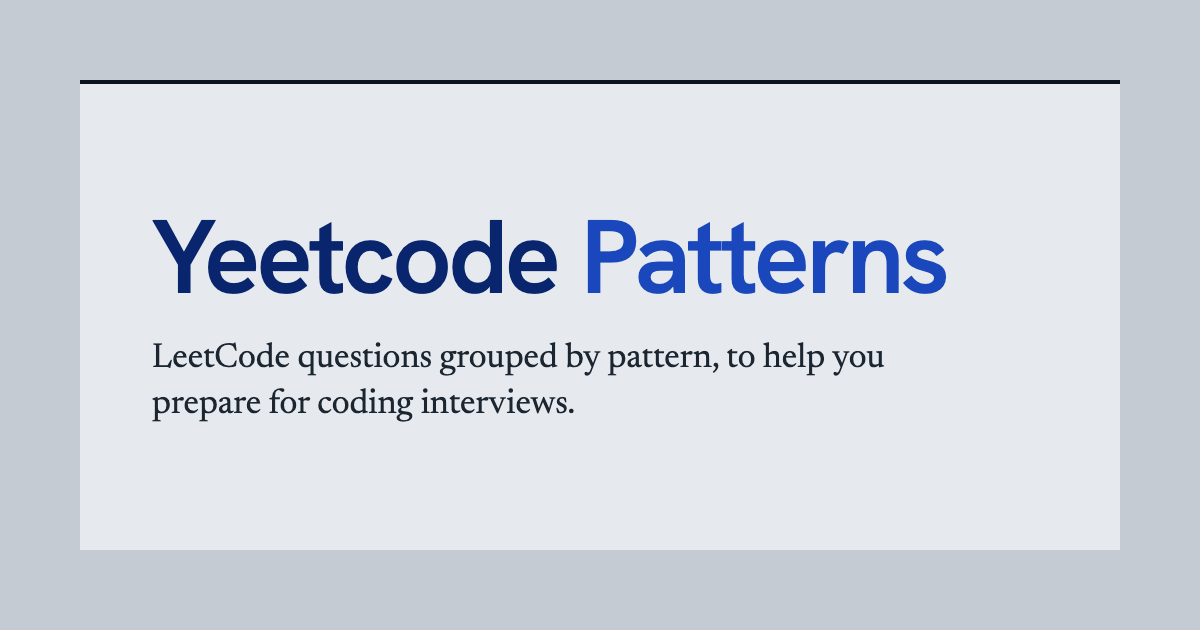
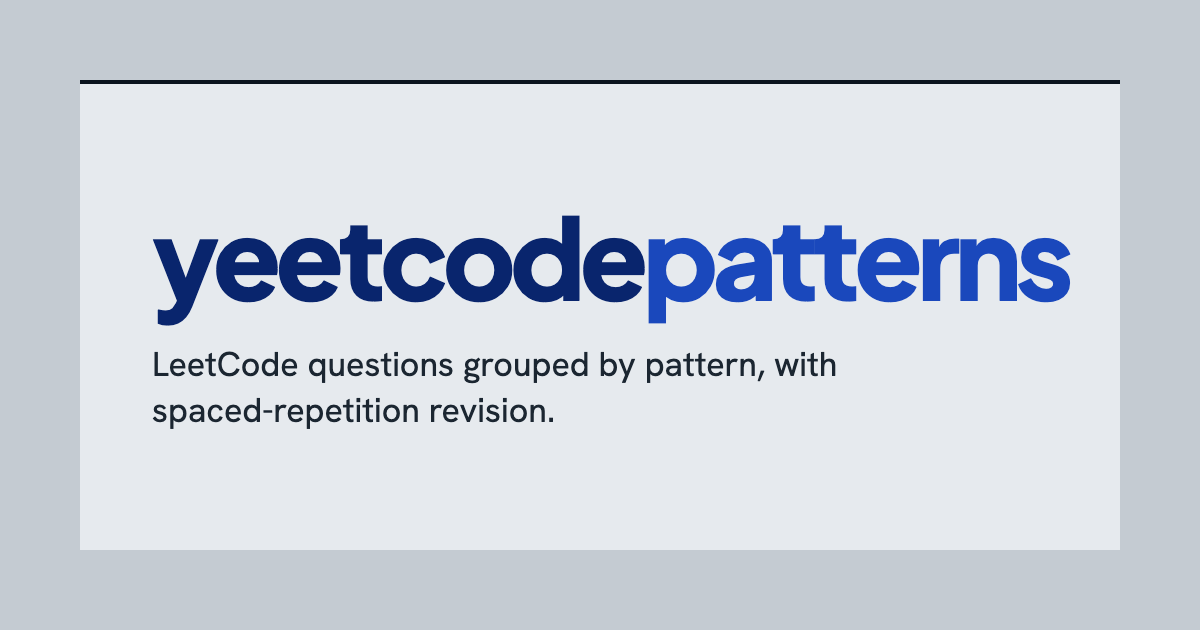
Use the yeetcodepatterns wordmark, a blue accent and all-sans type
- Wordmark: design 1 from the showcase, "yeetcode" in deep blue and
  "patterns" in the accent blue, set together in Plus Jakarta Sans
  ExtraBold; matching favicon, Apple touch icon and social image
- Accent: the wordmark's blue replaces magenta everywhere it's used
  (progress, due reviews, active tab, links, primary buttons, focus).
  Cobalt in light mode and the wordmark's pale blue in dark mode, so text
  and white-on-blue buttons keep their contrast
- Type: Hanken Grotesk for all text, replacing the Newsreader serif;
  figures use its tabular numerals instead of a mono face. A sans-style
  mono (Geist Mono) remains only for code, key hints and the ASCII dog

Changed region(s): [[0.1233, 0.3317, 0.8942, 0.5127], [0.1233, 0.5429, 0.74, 0.6937]]

diff --git a/src/components/roadmaps/RoadmapView.tsx b/src/components/roadmaps/RoadmapView.tsx
@@ -457,7 +457,7 @@ export default function RoadmapView({ roadmap, questions }: Props) {
 
   const phaseMarker = (complete: boolean, started: boolean, n: number) => (
     <div
-      className={`flex h-8 w-8 shrink-0 items-center justify-center font-outlier text-sm font-medium tabular-nums ${
+      className={`flex h-8 w-8 shrink-0 items-center justify-center text-sm font-medium tabular-nums ${
         complete
           ? "bg-ink text-sheet"
           : started
@@ -477,7 +477,7 @@ export default function RoadmapView({ roadmap, questions }: Props) {
         <p className="mt-2 max-w-[70ch] text-md text-ink-2"><InlineMarkdown text={roadmap.description} /></p>
         <div className="mt-6">
           <div className="mb-3 flex flex-wrap items-baseline gap-x-6 gap-y-1">
-            <span className="font-outlier text-lg font-medium text-ink tabular-nums">{stats.done}/{stats.total} completed ({stats.pct}%)</span>
+            <span className="text-lg font-medium text-ink tabular-nums">{stats.done}/{stats.total} completed ({stats.pct}%)</span>
             <div className="flex flex-wrap gap-x-4 gap-y-1 text-sm font-medium tabular-nums">
               {stats.totalByDiff.Easy > 0 && (
                 <span className="text-easy">
@@ -523,7 +523,7 @@ export default function RoadmapView({ roadmap, questions }: Props) {
                   <h3 className={`text-xl ${difficultyColor[group.difficulty]}`}>
                     {group.difficulty}
                   </h3>
-                  <span className="font-outlier text-sm text-muted tabular-nums">
+                  <span className="text-sm text-muted tabular-nums">
                     {group.done}/{group.total} completed ({groupPct}%)
                   </span>
                 </div>
@@ -556,7 +556,7 @@ export default function RoadmapView({ roadmap, questions }: Props) {
                           <div className="min-w-0 flex-1 pl-2">
                             <div className="flex items-baseline gap-2">
                               <span className="font-display font-semibold text-ink">{entry.phase.title}</span>
-                              <span className="font-outlier text-sm text-muted tabular-nums">
+                              <span className="text-sm text-muted tabular-nums">
                                 {phaseDone}/{entry.questions.length}
                               </span>
                             </div>
@@ -614,7 +614,7 @@ export default function RoadmapView({ roadmap, questions }: Props) {
                   <div className="min-w-0 flex-1 pl-2">
                     <div className="flex items-baseline gap-2">
                       <span className="font-display font-semibold text-ink">{phase.title}</span>
-                      <span className="font-outlier text-sm text-muted tabular-nums">
+                      <span className="text-sm text-muted tabular-nums">
                         {ps.done}/{ps.total}
                       </span>
                     </div>
@@ -656,7 +656,7 @@ export default function RoadmapView({ roadmap, questions }: Props) {
           <ol className="mt-4">
             {roadmap.nextSteps.map((step, i) => (
               <li key={i} className="flex items-start gap-3 border-t border-rule py-3 text-md text-ink-2 first:border-t-0">
-                <span className="bg-blue-100 flex h-6 w-6 shrink-0 items-center justify-center border border-rule-2 font-outlier text-sm font-medium text-ink tabular-nums">
+                <span className="bg-blue-100 flex h-6 w-6 shrink-0 items-center justify-center border border-rule-2 text-sm font-medium text-ink tabular-nums">
                   {i + 1}
                 </span>
                 <span><InlineMarkdown text={step} /></span>

diff --git a/src/app/tokens.css b/src/app/tokens.css
@@ -41,17 +41,20 @@
   --color-muted: oklch(38% 0.016 245);
   --color-rule: oklch(73% 0.013 240);
   --color-rule-2: oklch(32% 0.018 240);
-  --color-accent: oklch(45% 0.180 350);
-  --color-accent-2: oklch(37% 0.160 350);
+  /* The accent is the wordmark's blue ("patterns" in the logo). */
+  --color-accent: oklch(45% 0.19 264);
+  --color-accent-2: oklch(38% 0.17 264);
   --color-accent-ink: oklch(97% 0.006 245);
-  --color-focus: oklch(46% 0.190 350);
+  --color-focus: oklch(47% 0.2 264);
   --color-sheet: oklch(93.5% 0.008 245);
-  /* Brand: the wordmark's two blues (placeholder until a wordmark is chosen). */
+  /* Brand: the wordmark's two blues ("yeetcode" and "patterns"). */
   --color-brand-ink: oklch(30% 0.13 264);
   --color-brand: oklch(45% 0.19 264);
   --font-display: var(--font-hanken), "Hanken Grotesk", ui-sans-serif, system-ui, sans-serif;
-  --font-body: var(--font-newsreader), "Newsreader", ui-serif, Georgia, serif;
-  --font-outlier: var(--font-plex-mono), "IBM Plex Mono", ui-monospace, monospace;
+  --font-body: var(--font-hanken), "Hanken Grotesk", ui-sans-serif, system-ui, sans-serif;
+  /* Code, key hints and the ASCII dog only; figures use the body face's tabular numerals. */
+  --font-outlier: var(--font-geist-mono), "Geist Mono", ui-monospace, monospace;
+  --font-wordmark: var(--font-jakarta), "Plus Jakarta Sans", ui-sans-serif, system-ui, sans-serif;
   --radius-card: 0;
   --radius-pill: 2px;
   --shadow-card: none;
@@ -104,10 +107,10 @@
   --color-muted: oklch(72% 0.014 245);
   --color-rule: oklch(34% 0.014 240);
   --color-rule-2: oklch(80% 0.012 240);
-  --color-accent: oklch(72% 0.14 350);
-  --color-accent-2: oklch(78% 0.12 350);
+  --color-accent: oklch(74% 0.13 264);
+  --color-accent-2: oklch(80% 0.11 264);
   --color-accent-ink: oklch(16% 0.020 245);
-  --color-focus: oklch(74% 0.15 350);
+  --color-focus: oklch(76% 0.14 264);
   --color-error: oklch(72% 0.15 27);
   --color-error-ink: oklch(16% 0.020 245);
   --color-success: oklch(78% 0.10 160);

diff --git a/src/app/globals.css b/src/app/globals.css
@@ -1,8 +1,9 @@
 /* Hallmark · shape: app screen · genre: editorial · theme: Almanac (by request, chosen from all 50) · redesign: full
  * nav: kept shell, a masthead on the slate with the three reference drawers moved in from the fixed side tabs; view tabs cut into the sheet
- * signature: the question list set as a tide table on the printed sheet, titles in Newsreader, dates and counts in Plex Mono, a due review printed in magenta
+ * signature: the question list set as a tide table on the printed sheet, all type in Hanken Grotesk with tabular figures, a due review printed in the wordmark blue
+ * owner changes: Almanac's magenta accent replaced by the yeetcodepatterns wordmark blue; its Newsreader serif and Plex Mono figures replaced by an all-sans system (mono kept for code and key hints)
  * states: auth loading, toasts, confirm dialogs, unsaved-note guard, empty dropdown search
- * axes: mid/grotesk-sans/chromatic-magenta · posture: restrained · contrast: pass · modes: light+dark · v2.0.0 */
+ * axes: mid/grotesk-sans/chromatic-blue · posture: restrained · contrast: pass · modes: light+dark · v2.0.0 */
 /* Hallmark · pre-emit critique: P4 H4 E4 S4 R5 V4 · weakest: E, the title floor pushed the Review column off the sheet at 1280; pattern tags now wrap inside the table, cells sit at 8px and the 224px title floor starts at 1400 */
 /* Hallmark · waive 49b · question titles are LeetCode's own problem names: none wrap at 1440, two lines at most at 768, the eleven longest reach three or four lines at 320 · a problem title cannot be shortened without renaming the problem */
 /* Hallmark · answered F4 · the ink fill marks the pressed Unshuffle toggle, not an action; the magenta and brick fills live only inside dialogs, one per dialog */

diff --git a/src/app/layout.tsx b/src/app/layout.tsx
@@ -1,5 +1,5 @@
 import type { Metadata } from "next";
-import { Hanken_Grotesk, Newsreader, IBM_Plex_Mono } from "next/font/google";
+import { Hanken_Grotesk, Plus_Jakarta_Sans, Geist_Mono } from "next/font/google";
 import "./globals.css";
 import ServiceWorkerRegistrar from "@/components/layout/ServiceWorkerRegistrar";
 import { AuthProvider } from "@/components/layout/AuthContext";
@@ -7,20 +7,22 @@ import { AuthProvider } from "@/components/layout/AuthContext";
 const hanken = Hanken_Grotesk({
   variable: "--font-hanken",
   subsets: ["latin"],
-  weight: ["500", "600"],
-  display: "swap",
-});
-
-const newsreader = Newsreader({
-  variable: "--font-newsreader",
-  subsets: ["latin"],
-  weight: ["400", "500"],
+  weight: ["400", "500", "600"],
   style: ["normal", "italic"],
   display: "swap",
 });
 
-const plexMono = IBM_Plex_Mono({
-  variable: "--font-plex-mono",
+// The wordmark only.
+const jakarta = Plus_Jakarta_Sans({
+  variable: "--font-jakarta",
+  subsets: ["latin"],
+  weight: ["800"],
+  display: "swap",
+});
+
+// Code, key hints and the ASCII dog only.
+const geistMono = Geist_Mono({
+  variable: "--font-geist-mono",
   subsets: ["latin"],
   weight: ["400", "500"],
   display: "swap",
@@ -81,7 +83,7 @@ export default function RootLayout({
     <html
       lang="en"
       suppressHydrationWarning
-      className={`${hanken.variable} ${newsreader.variable} ${plexMono.variable}`}
+      className={`${hanken.variable} ${jakarta.variable} ${geistMono.variable}`}
     >
       <head>
         <script

diff --git a/src/components/revision/RevisionView.tsx b/src/components/revision/RevisionView.tsx
@@ -221,7 +221,7 @@ function RevisionSession({ questions, strategyId }: { questions: Question[]; str
         {total > 0 && (
           <div className="mt-6">
             <div className="mb-3 flex flex-wrap items-baseline justify-between gap-x-6 gap-y-1">
-              <span className="font-outlier text-lg font-medium text-ink tabular-nums">{done} of {total} reviewed</span>
+              <span className="text-lg font-medium text-ink tabular-nums">{done} of {total} reviewed</span>
               <span className="text-sm text-muted">Order: {strategy.label}</span>
             </div>
             <div className="relative h-1 overflow-hidden bg-sheet-3" role="progressbar" aria-valuenow={pct} aria-valuemin={0} aria-valuemax={100} aria-label="Revision progress">
@@ -392,7 +392,7 @@ function RevisionCardView({
                 <kbd className="kbd hidden sm:inline">{r.key}</kbd>
               </span>
               {intervals && (
-                <span className="font-outlier text-xs font-normal text-muted tabular-nums">
+                <span className="text-xs font-normal text-muted tabular-nums">
                   <span className="hidden sm:inline">next in </span>{plural(intervals[r.id], "day")}
                 </span>
               )}

diff --git a/src/components/layout/Logo.tsx b/src/components/layout/Logo.tsx
@@ -1,10 +1,16 @@
-// Text wordmark. A placeholder until one of the wordmark directions is chosen;
-// swapping it means changing only this component.
+// The wordmark: "yeetcode" in the deep brand blue and "patterns" in the
+// accent blue, set together in Plus Jakarta Sans ExtraBold.
 export default function Logo() {
   return (
-    <span className="inline-block font-display text-3xl leading-none font-semibold tracking-[-0.035em] whitespace-nowrap sm:text-4xl">
-      <span className="text-brand-ink">Yeetcode</span>{" "}
-      <span className="text-brand">Patterns</span>
-    </span>
+    <>
+      <span className="sr-only">Yeetcode Patterns</span>
+      <span
+        aria-hidden="true"
+        className="inline-block font-wordmark text-3xl leading-none font-extrabold tracking-[-0.05em] whitespace-nowrap sm:text-4xl"
+      >
+        <span className="text-brand-ink">yeetcode</span>
+        <span className="text-brand">patterns</span>
+      </span>
+    </>
   );
 }

diff --git a/src/components/questions/ProgressBar.tsx b/src/components/questions/ProgressBar.tsx
@@ -9,7 +9,7 @@ export default function ProgressBar({ stats, pct }: { stats: ProgressStats; pct:
   return (
     <div className="pt-6">
       <div className="mb-3 flex flex-wrap items-baseline gap-x-6 gap-y-1">
-        <span className="font-outlier text-lg font-medium text-ink tabular-nums">{stats.totalDone}/{stats.total} completed ({pct}%)</span>
+        <span className="text-lg font-medium text-ink tabular-nums">{stats.totalDone}/{stats.total} completed ({pct}%)</span>
         <div className="flex flex-wrap gap-x-4 gap-y-1 text-sm font-medium tabular-nums">
           {stats.totals.Easy > 0 && (
             <span className="text-easy">

diff --git a/src/components/questions/NoteEditor.tsx b/src/components/questions/NoteEditor.tsx
@@ -212,7 +212,7 @@ export default function NoteEditor({
         </div>
       ) : (
         <div className="mt-2 flex flex-wrap items-center justify-between gap-x-4 gap-y-2">
-          <span className={`font-outlier text-xs tabular-nums ${editingNote.draft.length >= MAX_NOTE_LENGTH ? "text-error" : "text-muted"}`}>
+          <span className={`text-xs tabular-nums ${editingNote.draft.length >= MAX_NOTE_LENGTH ? "text-error" : "text-muted"}`}>
             {editingNote.draft.length.toLocaleString()} / {MAX_NOTE_LENGTH.toLocaleString()} characters
           </span>
           <div className="flex flex-wrap items-center gap-x-3 gap-y-2">

diff --git a/src/app/not-found.tsx b/src/app/not-found.tsx
@@ -4,7 +4,7 @@ export default function NotFound() {
   return (
     <div className="flex min-h-dvh items-center justify-center px-(--gutter)">
       <div className="w-full max-w-md border-t-2 border-ink bg-sheet px-6 pt-6 pb-10">
-        <p className="font-outlier text-figure leading-none font-medium tracking-[-0.04em] text-ink tabular-nums">
+        <p className="font-display text-figure leading-none font-semibold tracking-[-0.04em] text-ink tabular-nums">
           404
         </p>
         <h1 className="mt-6 text-2xl">Page not found</h1>

diff --git a/src/components/questions/ReviewDateModal.tsx b/src/components/questions/ReviewDateModal.tsx
@@ -69,7 +69,7 @@ export default function ReviewDateModal({
                 className="option justify-between px-4 font-display text-sm font-medium text-ink"
               >
                 <span>{p.label}</span>
-                <span className="font-outlier text-xs font-normal text-muted tabular-nums">
+                <span className="text-xs font-normal text-muted tabular-nums">
                   {new Date(date + "T00:00:00").toLocaleDateString("en-US", { month: "short", day: "numeric" })}
                 </span>
               </button>

diff --git a/src/components/questions/GroupHeaderRow.tsx b/src/components/questions/GroupHeaderRow.tsx
@@ -46,7 +46,7 @@ const GroupHeaderRow = forwardRef<HTMLTableRowElement, GroupHeaderRowProps>(
             <span className={`font-display text-xl font-semibold tracking-[-0.02em] ${difficultyColor[groupKey] ?? ""}`}>
               {groupKey}
             </span>
-            <span className="font-outlier text-sm text-muted tabular-nums">
+            <span className="text-sm text-muted tabular-nums">
               {groupDone}/{total} completed
             </span>
             {groupDone > 0 && (

diff --git a/src/components/layout/ViewSwitcher.tsx b/src/components/layout/ViewSwitcher.tsx
@@ -109,7 +109,7 @@ export default function ViewSwitcher({
               <Icon className="h-4 w-4 shrink-0" aria-hidden="true" />
               <span>{v.label}</span>
               {v.id === "revision" && dueCount > 0 && (
-                <span className="font-outlier text-sm text-muted tabular-nums" aria-hidden="true">{dueCount}</span>
+                <span className="text-sm text-muted tabular-nums" aria-hidden="true">{dueCount}</span>
               )}
             </button>
           );
